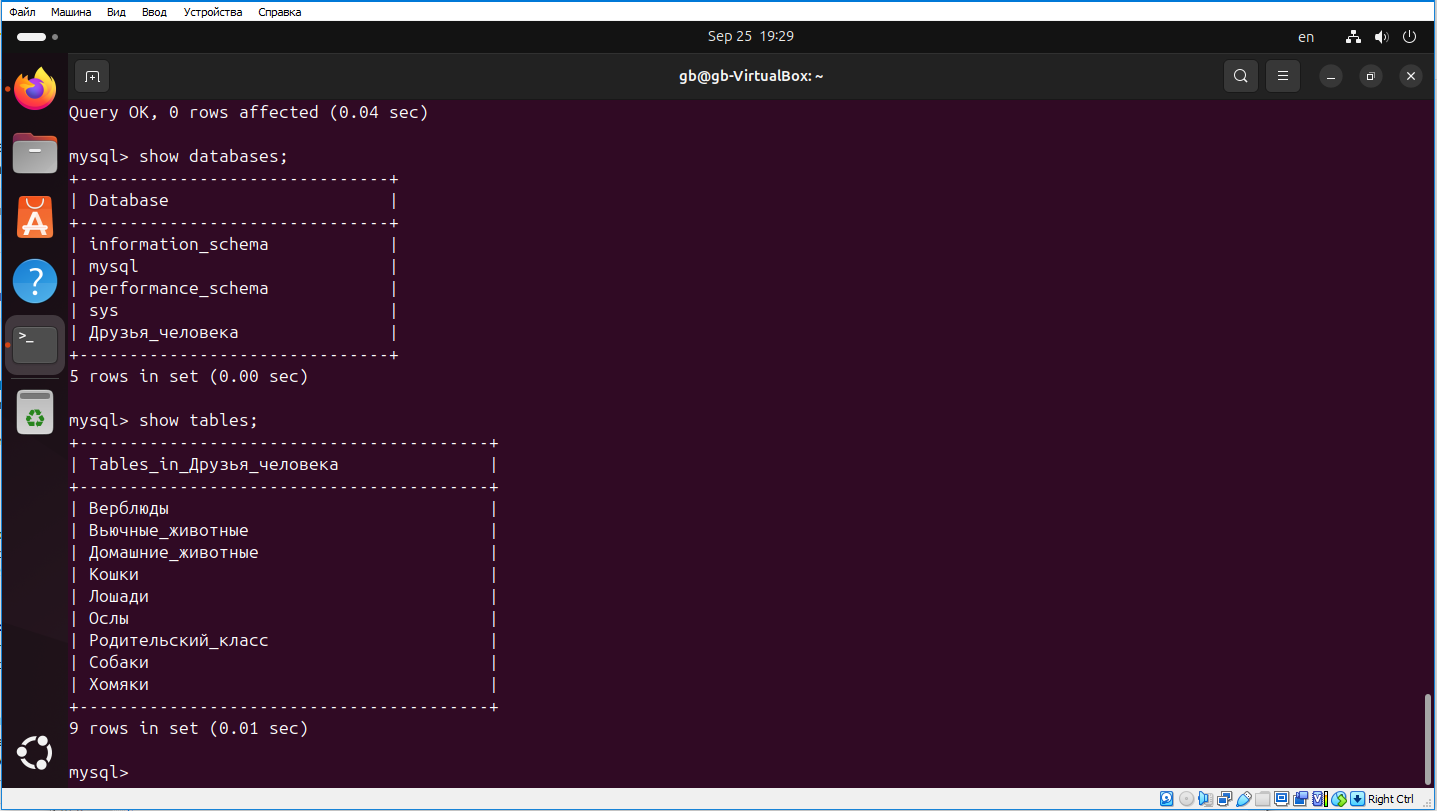
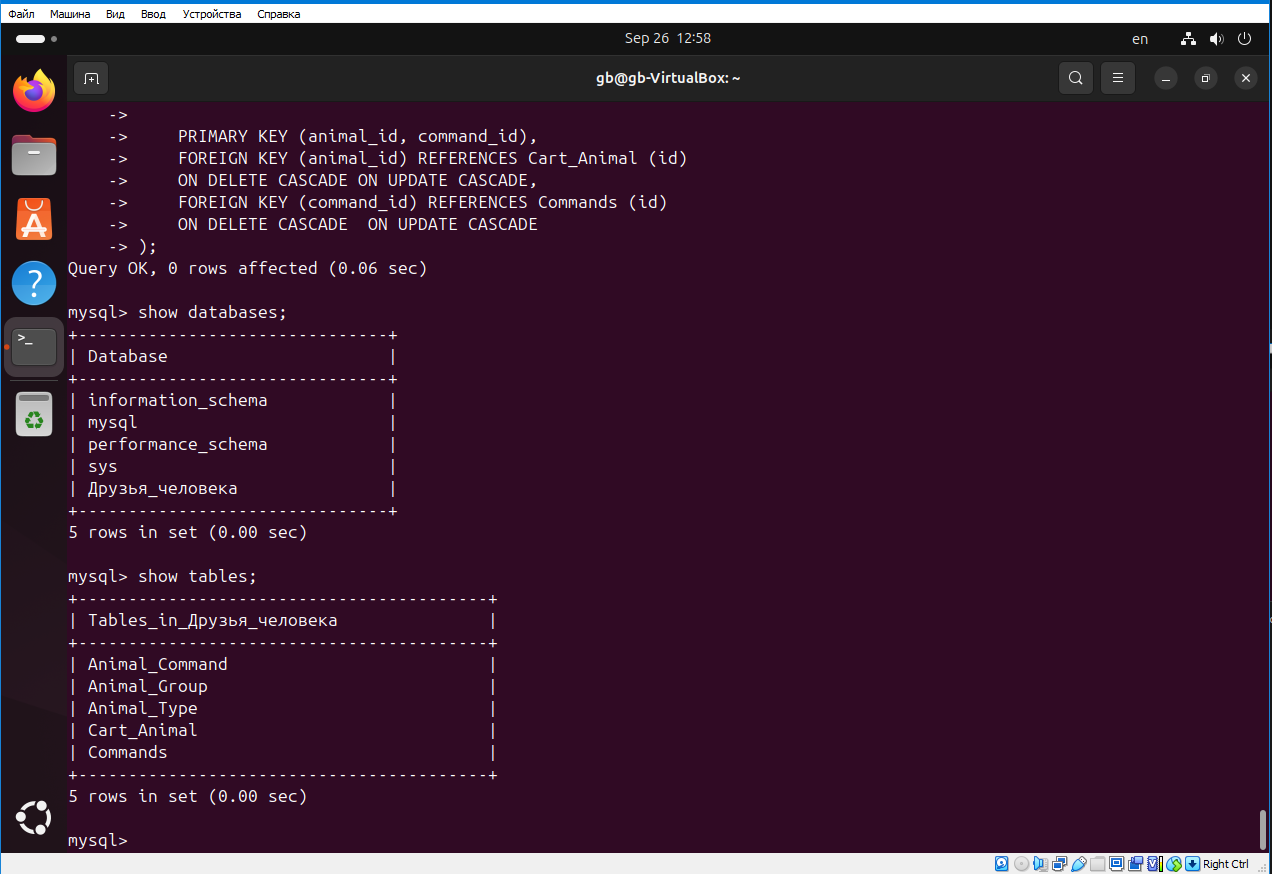
correction  task_06-12

diff --git a/README.md b/README.md
@@ -129,7 +129,7 @@ history
 7. Код sql:
 
 ```sql
-CREATE DATABASE Друзья_человека;
+CREATE DATABASE Друзья человека;
 ```
 <img src="img/task_07.PNG"/>
 
@@ -139,80 +139,123 @@ CREATE DATABASE Друзья_человека;
 
 USE Друзья_человека;
 
-CREATE TABLE Родительский_класс (
-  id INT PRIMARY KEY AUTO_INCREMENT,
-  тип VARCHAR(50)
+CREATE TABLE Commands
+(
+    id INT PRIMARY KEY NOT NULL AUTO_INCREMENT,
+    name varchar(30),
+    description varchar(255)
 );
 
 
-CREATE TABLE Домашние_животные (
-  id INT PRIMARY KEY,
-  вид VARCHAR(50),
-  FOREIGN KEY (id) REFERENCES Родительский_класс(id)
+CREATE TABLE Animal_Group
+(
+    id INT PRIMARY KEY NOT NULL AUTO_INCREMENT,
+    name varchar(30)
 );
 
-
-CREATE TABLE Собаки (
-  id INT PRIMARY KEY,
-  имя VARCHAR(50),
-  команда VARCHAR(50),
-  дата_рождения DATE,
-  FOREIGN KEY (id) REFERENCES Домашние_животные(id)
+CREATE TABLE Animal_Type
+(
+    id INT PRIMARY KEY NOT NULL AUTO_INCREMENT,
+    name varchar(30),
+    group_id INT,
+    FOREIGN KEY (group_id) REFERENCES Animal_Group (id)
+    ON DELETE CASCADE ON UPDATE CASCADE
 );
 
-
-CREATE TABLE Кошки (
-  id INT PRIMARY KEY,
-  имя VARCHAR(50),
-  команда VARCHAR(50),
-  дата_рождения DATE,
-  FOREIGN KEY (id) REFERENCES Домашние_животные(id)
+CREATE TABLE Cart_Animal
+(
+    id INT PRIMARY KEY NOT NULL AUTO_INCREMENT,
+    name varchar(30),
+    birthDay DATE,
+    genius_id INT,
+    FOREIGN KEY (genius_id) REFERENCES Animal_Type (id)
+    ON DELETE CASCADE ON UPDATE CASCADE
 );
 
+CREATE TABLE Animal_Command
+(
+    animal_id INT NOT NULL,
+    command_id INT NOT NULL,
 
-CREATE TABLE Хомяки (
-  id INT PRIMARY KEY,
-  имя VARCHAR(50),
-  команда VARCHAR(50),
-  дата_рождения DATE,
-  FOREIGN KEY (id) REFERENCES Домашние_животные(id)
-);
-
-
-CREATE TABLE Вьючные_животные (
-  id INT PRIMARY KEY,
-  вид VARCHAR(50),
-  FOREIGN KEY (id) REFERENCES Родительский_класс(id)
-);
-
-
-CREATE TABLE Лошади (
-  id INT PRIMARY KEY,
-  имя VARCHAR(50),
-  команда VARCHAR(50),
-  дата_рождения DATE,
-  FOREIGN KEY (id) REFERENCES Вьючные_животные(id)
-);
-
-
-CREATE TABLE Верблюды (
-  id INT PRIMARY KEY,
-  имя VARCHAR(50),
-  команда VARCHAR(50),
-  дата_рождения DATE,
-  FOREIGN KEY (id) REFERENCES Вьючные_животные(id)
-);
-
-
-CREATE TABLE Ослы (
-  id INT PRIMARY KEY,
-  имя VARCHAR(50),
-  команда VARCHAR(50),
-  дата_рождения DATE,
-  FOREIGN KEY (id) REFERENCES Вьючные_животные(id)
+    PRIMARY KEY (animal_id, command_id),
+    FOREIGN KEY (animal_id) REFERENCES Cart_Animal (id)
+    ON DELETE CASCADE ON UPDATE CASCADE,
+    FOREIGN KEY (command_id) REFERENCES Commands (id)
+    ON DELETE CASCADE  ON UPDATE CASCADE
 );
 
 show databases;
 show tables;
 ```
 <img src="img/task_08.PNG"/>
+
+9. Код sql:
+
+```sql
+
+INSERT INTO Commands(name)
+VALUES
+ ('Фас!'),
+ ('Бегать'),
+ ('Галоп!'),
+ ('Поклон!'),
+ ('Лежать!');
+
+INSERT INTO Animal_Group (name)
+VALUES
+ ('Вьючные животные'),
+ ('Домашние животные');
+
+INSERT INTO Animal_Type (name, group_id)
+VALUES
+ ('Лошадь', 1),
+ ('Верблюд', 1),
+ ('Осел', 1),
+ ('Кошка', 2),
+ ('Собака', 2),
+ ('Хомяк', 2);
+
+INSERT INTO Cart_Animal (name, birthDate, genius_id)
+VALUES
+ ('Туман', '2021-08-17', 1),
+ ('Рыжий', '2023-03-03', 1),
+ ('Сахара', '2018-07-20', 2),
+ ('Тормоз', '2019-01-01', 3),
+ ('Перс', '2016-07-07', 4),
+ ('Мухтар', '2022-09-07', 5),
+ ('Хомо', '2023-12-19', 6);
+
+
+INSERT INTO Animal_Command (animal_id, command_id)
+VALUES
+ (1, 3), (2, 4), (3, 5),
+ (4, 5), (5, 2), (6, 1),
+ (7, 2);
+```
+10. Код sql:
+```sql
+DELETE FROM Cart_Animal WHERE genius_id = 2;
+
+CREATE TABLE Horse_Donkey AS
+SELECT * from Cart_Animal WHERE genius_id = 1
+UNION
+SELECT * from Cart_Animal WHERE genius_id = 3;
+```
+
+11. Код sql:
+
+```sql
+CREATE TABLE Young_Animals AS
+SELECT id, name, birthDay, datediff(curdate(),birthDay) DIV 31 as age, genius_id 
+from Cart_Animal 
+WHERE date_add(birthDay, INTERVAL 1 YEAR) < curdate() 
+AND date_add(birthDay, INTERVAL 3 YEAR) > curdate();
+```
+
+12. Код Sql:
+
+```sql
+SELECT id, name, birthDay, genius_id FROM Horse_Donkey
+UNION
+SELECT id, name, birthDay, genius_id FROM Young_Animals;
+```
